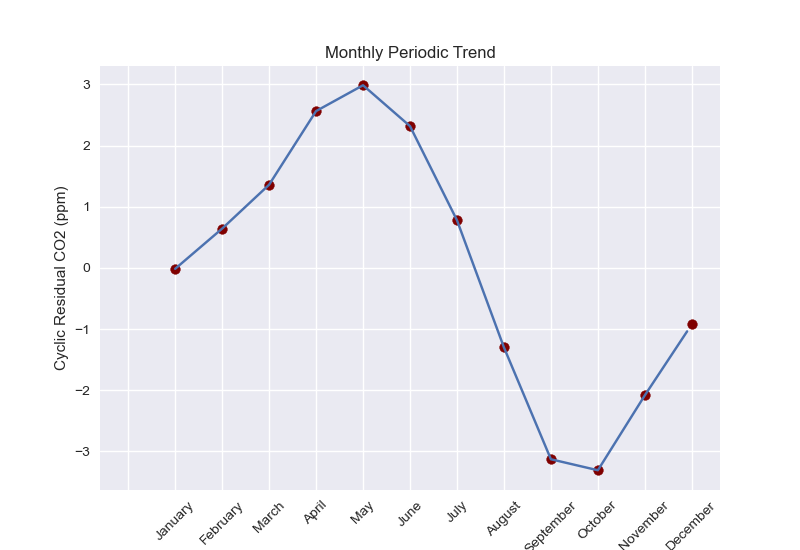
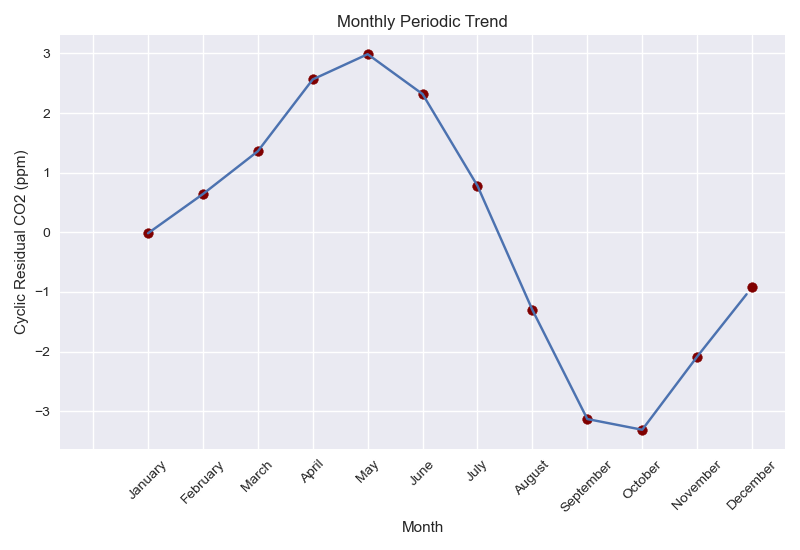
Small tweaks to code and big update to README.md
Created README.md
Save fig on final plot
Rearranged functions
Other minor Changes

diff --git a/CO2_Model.py b/CO2_Model.py
@@ -26,6 +26,18 @@ def load_data():
     return co2_df_load
 
 
+def split_data(features, labels, split_frac=.8):
+    # Converts df to numpy then splits the data
+    split_num = int(split_frac * len(features))
+    features = features.to_numpy().reshape(-1, 1)
+    labels = labels.to_numpy().reshape(-1, 1)
+    train_f = features[0:split_num]
+    test_f = features[split_num:]
+    train_l = labels[0:split_num]
+    test_l = labels[split_num:]
+    return train_f, test_f, train_l, test_l
+
+
 def calc_error(y, predicted_y):
     # Computes the residuals, root mean squared error, and mean absolute percentage error
     resid = np.zeros([len(y), 1])
@@ -34,6 +46,11 @@ def calc_error(y, predicted_y):
     rmse = metrics.mean_squared_error(y, predicted_y) ** .5
     mape = metrics.mean_absolute_percentage_error(y, predicted_y)
     return resid, rmse, mape * 100
+
+
+def interpolate1d_function(x, y, x_new):
+    f = interp1d(x, y)
+    return f(x_new)
 
 
 def poly_regression(x, y, test_x, test_y=None, degree=2, error=False):
@@ -61,18 +78,6 @@ def linear_regression(x, y, test_x, test_y=None, error=False):
         return lr.coef_, lr.intercept_, predicted_y, predict_test_y
 
 
-def split_data(features, labels, split_frac=.8):
-    # Converts df to numpy then splits the data
-    split_num = int(split_frac * len(features))
-    features = features.to_numpy().reshape(-1, 1)
-    labels = labels.to_numpy().reshape(-1, 1)
-    train_f = features[0:split_num]
-    test_f = features[split_num:]
-    train_l = labels[0:split_num]
-    test_l = labels[split_num:]
-    return train_f, test_f, train_l, test_l
-
-
 def plot_data(train_x, train_y, test_x, test_y, pred_y_train, pred_y_test, title, error):
     fig, ax = plt.subplots()
     ax.scatter(train_x + 1958 + 2 / 12, train_y, s=5, label="Training Data, Raw")
@@ -83,7 +88,7 @@ def plot_data(train_x, train_y, test_x, test_y, pred_y_train, pred_y_test, title
     ax.set_xlabel("Year")
     ax.set_ylabel("CO2 (ppm)")
     ax.legend()
-    plt.savefig("CO2_Plots/" + title.replace(" ", "_") + ".png")
+    # plt.savefig("CO2_Plots/" + title.replace(" ", "_") + ".png")
     plt.show()
 
 
@@ -98,7 +103,8 @@ def plot_cyclic(x, y):
     x_interp = np.arange(1, 12, .1)
     y_interp = interpolate1d_function(x, y, x_interp)
     ax.plot(x_interp, y_interp)
-    plt.savefig("CO2_Plots/" + title.replace(" ", "_") + ".png")
+    fig.tight_layout()
+    # plt.savefig("CO2_Plots/" + title.replace(" ", "_") + ".png")
     plt.show()
 
 
@@ -108,13 +114,8 @@ def sub_plot_data(test_x, resid_quadratic, resid_final):
     ax[1].scatter(test_x, resid_final, c="seagreen")
     ax[0].set_title("Residuals After Trend Removal")
     ax[1].set_title("Residuals After Trend & Cyclic Removal")
-    plt.savefig("CO2_Plots/Residuals.png")
+    # plt.savefig("CO2_Plots/Residuals.png")
     plt.show()
-
-
-def interpolate1d_function(x, y, x_new):
-    f = interp1d(x, y)
-    return f(x_new)
 
 
 def main():

diff --git a/CO2_Prediction.py b/CO2_Prediction.py
@@ -60,9 +60,10 @@ co2_df["Predicted CO2 Concentration"] = co2_df["Date Index"] * first_order + \
 # Step 8: Plot data
 fig, ax = plt.subplots()
 ax.scatter(co2_df["Date Index"] + start_year + 3/12, co2_df["CO2"], s=5, label="Training Data, Raw")
-ax.plot(co2_df["Date Index"] + start_year + 3/12, co2_df["Predicted CO2 Concentration"], label="Predicted Data", c="maroon", linewidth=.65)
+ax.plot(co2_df["Date Index"] + start_year + 3/12, co2_df["Predicted CO2 Concentration"], label="Predicted Data", c="seagreen", linewidth=.65)
 ax.set_title(f"Extrapolated CO2 Concentration to {extrapolate_to_date}")
 ax.set_ylabel("CO2 (ppm)")
 ax.set_xticks(np.arange(1950, extrapolate_to_date+10, 10))
 ax.legend()
+# plt.savefig("CO2_Plots/Extrapolated_CO2_Concentration.png")
 plt.show()

diff --git a/README.md b/README.md
@@ -1,2 +1,99 @@
-# CO2_Analysis
-Time-series exploration of atmospheric CO2 concentration
+# Atmospheric CO2 Concentration
+### A Time-Series Exploration
+
+The New York Times noted that in May 2021, the amount of carbon dioxide in Earth's atmosphere hit the highest levels in human history, despite a temporary dip in CO2 emissions caused by COVID-19 shutdowns ([source](https://www.nytimes.com/2021/06/07/climate/climate-change-emissions.html?referringSource=articleShare)). In fact, the dip in emissions was too small to impact atmospheric CO2 concentration at all, according to the data recorded by the [NOAA](https://www.noaa.gov/) Observatory, which has been measuring Earth's atmospheric CO2 concentration atop Mauna Loa in Hawaii since 1958.
+
+This scenario is a particularly good demonstration of how time-series regression can be used to model historic data and extrapolate to the future. This prediction serves as a decent (but maybe conservative) baseline for a "do-nothing" option for reducing CO2 emissions. Of course, if humanity gets its act together, the projection will change.
+
+#### CO2_model.py - Finding the right model
+
+#####  Step 1 - The Basics
+Load and clean the data with Pandas, of course.
+* Load it with Pandas and convert to dataframe, which will make it easier to work with
+* Grab data of interest and drop the interest
+* Establish a reference date (March 1958)
+
+Create utility functions
+* split_data():  - We will train our model on the "train" set and evaluate its performance on the "test" set
+* calc_error(): - Resid, RMSE, MAPE
+  * We will calculate the residuals - the sum of the difference between the model predicted value and ground truth.
+  * We will use root mean square error (RMSE) to evaluate the quality of regressions, but we will also calculate mean absolute percentage error (MAPE). These will typically be calculated on the "test" data to evaluate the model performance. Both algorithms are available through SKLearn.
+* Interpolate1d_function - simple interpolation
+
+#### Step 2 - The Regression
+The methodology is straightforward - let's plot the linear, quadratic, and cubic regressions with their respective RMSEs.
+
+![Linear Regression](CO2_Plots/CO2_Linear_Regression.png)
+
+![Quadratic Regression](CO2_Plots/CO2_Quadratic_Regression.png)
+
+![Cubic Regression](CO2_Plots/CO2_Cubic_Regression.png)
+
+It's clear that the lowest test error is with quadratic regression, we are not capturing the cyclic nature of the data. We could plot the residuals and observe that there is a trend, which indicates that the series is not yet stationary.
+
+#### Step 3 - Cyclic Regression
+
+There's obviously a cyclic nature to CO2 concentration at this specific location. This can be explained by seasonal changes that impact vegetation, soil moisture, and ocean temperature.
+
+Let's remove the periodic residual from the trend by computing the monthly mean of the residuals from the quadratic regression. These are plotted below.
+
+![Cubic Regression](CO2_Plots/Monthly_Periodic_Trend.png)
+
+#### Step 4 - The Final Model
+
+The final model incorporates the coefficients and y-intercept from the quadratic regression with the cyclic regression in the formula
+
+```python
+co2_df["predicted_y"] = co2_df["Date Index"] * first_order + \
+                           co2_df["Date Index"] ** 2 * second_order + \
+                           intercept_quadratic + \
+                           co2_df["Periodic Residual"]
+```
+![Final Regression](CO2_Plots/CO2_Periodic_&_Quadratic_Regression.png)
+
+Visualizing the residuals from before and after the cyclic trend were removed is another way of showing how removing the periodic residual helps the regressions
+
+![Residuals](CO2_Plots/Residuals.png)
+
+The upward trend in the residual indicates that we are underpredicting CO2 closer to present-day. This is result of how we split the train and test data. We can keep this in mind when extrapolating beyond present-day; this analysis definitely does __not__ represent the worst-case. In fact, we might actually get better predictions by performing the regression on _less_ data
+
+
+#### CO2_Prediction.py - Extrapolation
+
+#### Step 1 - Load data & Create Train/Test split
+
+Training data is all seen data, and our test set are the date indices from present until 2050
+
+
+#### Step 2 - Quadratic Regression
+
+Find coefficients and y-intercept
+
+#### Step 3 - Calculate Quadratic Residuals
+
+Find the residuals with the calc_error function.
+
+We need to explicitly return the residuals in order to calculate the periodic residuals instead of just letting the quadratic regression call the error function
+
+#### Step 4 - Calculate Periodic Residuals
+
+Calculate the periodic residuals in the same way as the CO2_model file
+
+#### Step 5 - Create Test Dataframe
+
+We want to create a separate dataframe for all unseen data, which has info in the Date Index, Month, Year, and Periodic Residual columns. CO2 is np.NAN, as there is obviously no ground truth.
+
+#### Step 6 - Merge
+
+Merge CO2 and CO2 test dataframes.
+
+#### Step 7 - Final model
+
+Calculate the predicted atmospheric CO2 concentration based on the regression and residuals from all known data from 1958 to 2019.
+
+#### Step 8 - Plot Dataframe
+
+
+![Final Regression to 2050](CO2_Plots/Extrapolated_CO2_Concentration.png)
+
+As you can see, we are well on our way to 500 ppm atmospheric CO2 concentration.
